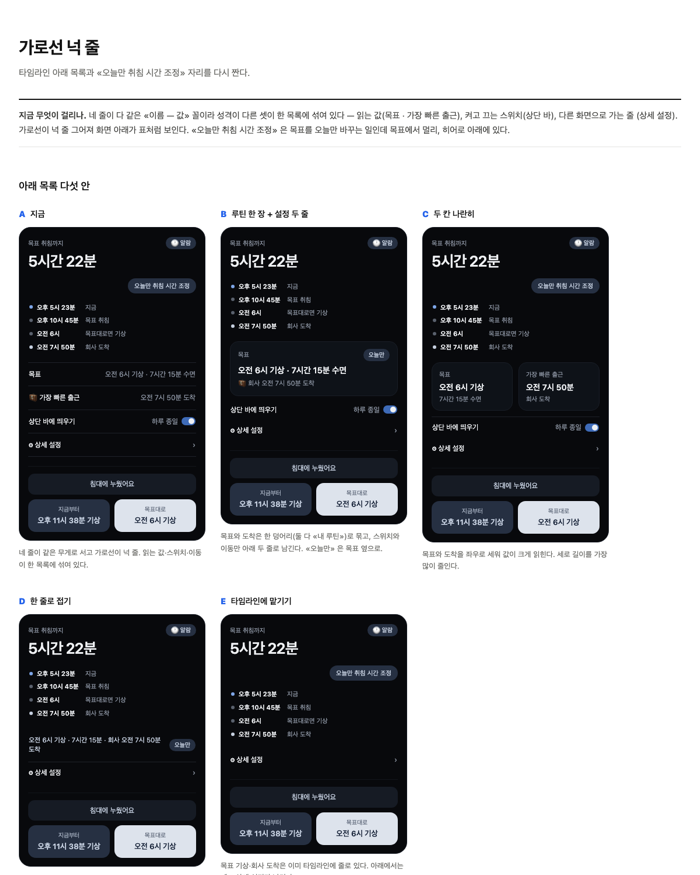
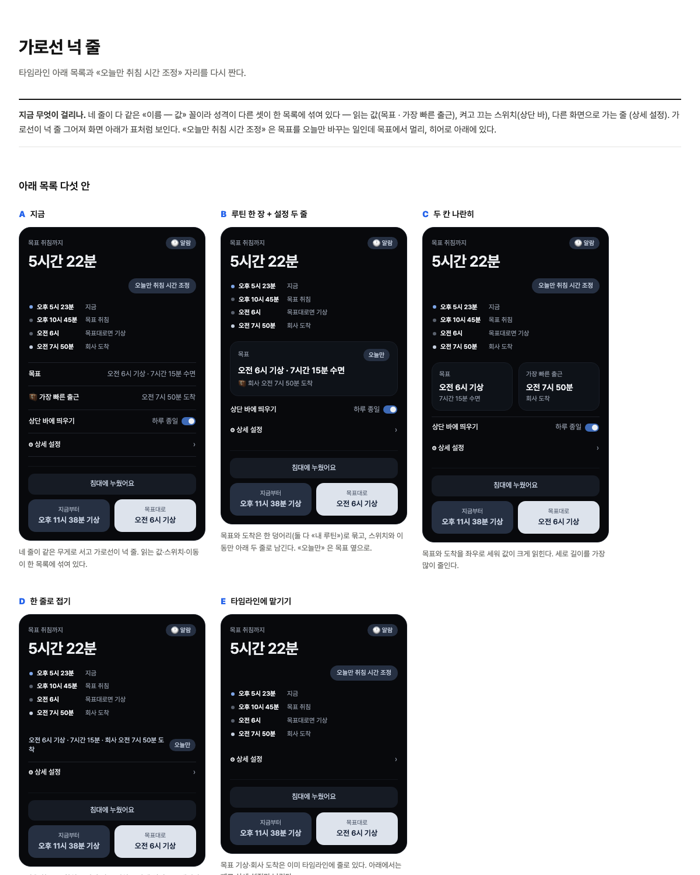
새 설명서를 받아 온다

diff --git a/public/p/sleep-now/manual.html b/public/p/sleep-now/manual.html
@@ -144,6 +144,8 @@ border:1px solid var(--hair);border-radius:10px}
 <text x="1340" y="2151.5" font-size="35" fill="#3d3d3a">닿는 시각이에요.</text>
 </svg>
 <h3>누운 뒤</h3>
+<p class="lead">취침을 누르면 목표 줄이 사라져요. 이미 정해진 밤이라 기준이 알람으로 바뀌고,
+남는 건 누운 시각 · 알람 · 회사 도착 셋이에요.</p>
 <svg class="shot" viewBox="0 0 2620 1920" xmlns="http://www.w3.org/2000/svg" xmlns:xlink="http://www.w3.org/1999/xlink" role="img">
 <image href="img/main_asleep.png" xlink:href="img/main_asleep.png" x="0" y="0" width="1080" height="1920"/>
 <ellipse cx="769.0" cy="106.5" rx="149.0" ry="65.5" fill="none" stroke="#2563eb" stroke-width="5"/>
@@ -180,6 +182,12 @@ border:1px solid var(--hair);border-radius:10px}
 <text x="1340" y="1675.0" font-size="35" fill="#3d3d3a">«목표대로» 는 밤에 밝은 판, 낮에 어두운 판이에요. 늘 이쪽이</text>
 <text x="1340" y="1723.0" font-size="35" fill="#3d3d3a">도드라져 보이게.</text>
 </svg>
+
+<h3>홈 화면 위젯</h3>
+<p class="lead">지금 상태 한 줄과 누를 것만 있어요. 눕기 전에는 «누웠어요 · 지금부터 ·
+목표대로» 셋, 누운 뒤에는 «취침 해제 · 취침 다시» 둘이에요. 알림 버튼과 같은 일을 하고,
+누르면 상단 바·앱·위젯이 같이 바뀌어요. 타임라인은 위젯에 못 그려서 앱에서 봐요.
+설정 › 바의 <b>홈 화면에 위젯 놓기</b> 로 올려요.</p>
 
 <h2>알람</h2>
 <h3>오늘 밤 알람 열어 보기</h3>
@@ -348,6 +356,7 @@ border:1px solid var(--hair);border-radius:10px}
 <li>설정 › 출근에서 <b>준비 시간</b>과 <b>회사까지</b> 를 정해요. «가장 빠른 출근» 이 바로 나와요.</li>
 <li>«상단 바에 띄우기» 를 켜요. 안 보이면 설정 › 바 › «상단 바 표시 설정» 에서 기기 쪽 표시를 켜요.</li>
 <li>설정 › 알람에서 소리를 눌러 마음에 드는 걸 골라요. 목록에서 바로 들어볼 수 있어요.</li>
+<li>앱을 안 열고 누르고 싶으면 설정 › 바에서 <b>홈 화면에 위젯 놓기</b> 를 눌러요.</li>
 </ol>
 
 <h3>제때 자는 밤</h3>
